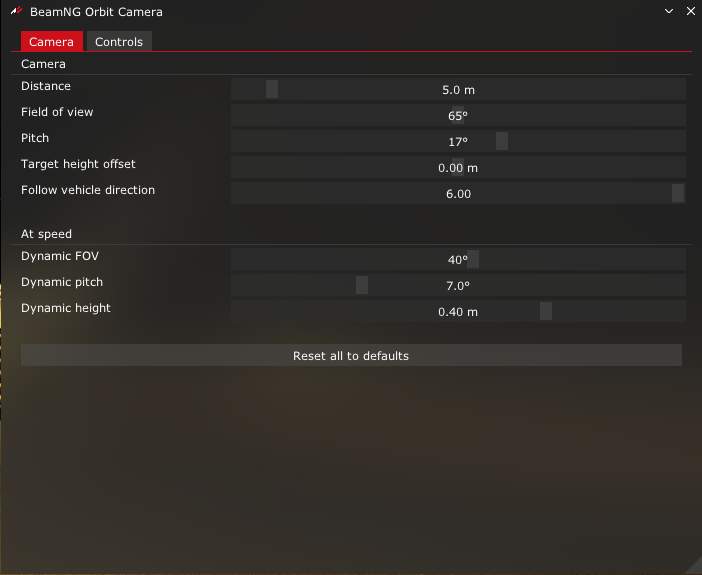
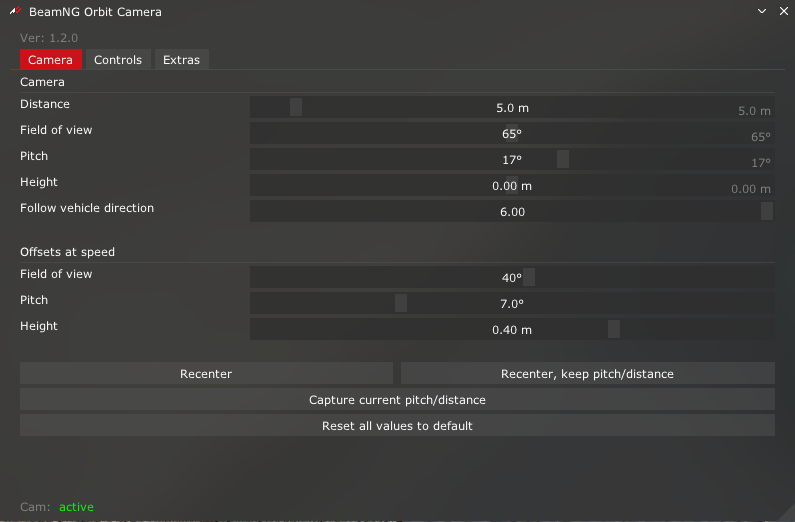
Update documentation and screenshots for 1.2.0

diff --git a/README.md b/README.md
@@ -41,7 +41,6 @@ This is a nearly 1:1 behavioral port of the BeamNG.drive orbit camera. The follo
 - Smooth rendered yaw behavior
 - Near-clip-aware camera collisions
 - Collision pull-in and smooth release
-- Optional vehicle-specific reference nodes
 
 ## Mod Structure
 
@@ -66,11 +65,21 @@ After installation:
 
 Camera and input settings are configured from the **BeamNG Orbit Camera** Lua app while you are in a session.
 
+In smaller windows, tab contents scroll above the status bar. Status indicators appear only while the camera or OBS integration is active.
+
 The **Camera** tab contains the camera parameters:
 
 ![](res/lua_app_camera.png?raw=true)
 
 Most values follow the corresponding BeamNG.drive orbit-camera settings and ranges.
+
+While the camera is active, gray readouts show its current distance, FOV, pitch and height, including speed offsets and manual orbit adjustments.
+
+- **Recenter** returns the camera behind the car and restores the pitch and distance from the settings.
+- **Recenter, keep pitch/distance** returns the camera behind the car while preserving the current orbit pitch and distance.
+- **Capture current pitch/distance** saves the current orbit pitch and distance to the settings, without the additional speed offsets.
+
+**Follow vehicle direction** supports values down to 0.2. Values below 0.5 gradually take effect at higher speeds while keeping the camera less reactive at low speeds.
 
 The camera ignores the standard Assetto Corsa chase-camera distance, height and pitch settings and uses its own values instead. This is intentional so all relevant camera settings can be adjusted from one place and tested immediately in-session.
 
@@ -82,15 +91,39 @@ The **Controls** tab contains common bindable actions and specifics for gamepad 
 
 The gamepad and mouse are implemented using *predefined control schemes* to reduce the number of possible moving parts. And also because, in any case, there is no convenient way to assign gamepad axes and mouse buttons.
 
+The camera uses the gamepad selected in the game's control settings.
+
+Standard glance left/right/back controls are enabled by default. Hold **left + back** or **right + back** for a front-left or front-right view at 45 degrees. **Controls → Additional → Disable glance left/right/back** disables the camera's response to these controls.
+
 ## Mod Specifics
 
-### Obs Integration
+The **Extras** tab contains collision settings and OBS integration:
 
-The camera is available in OBS as a custom `BeamNG Orbit Camera` source.
+![](res/lua_app_extras.png?raw=true)
+
+### Collisions
+
+**Extras → Collision** offers three handling modes: **Disabled**, **Collision with physics shapes** (default), and **Collision with visuals**.
+
+**Disable collision for recentered camera** is off by default. Enabling it skips collision checks while the camera is recentered, which can slightly reduce CPU load. Collision checks resume after manual orbit or zoom input when a collision handling mode is enabled.
+
+### OBS Integration
+
+Enable **Extras → Enable OBS integration** to make the camera available in OBS as a custom `BeamNG Orbit Camera` source. Integration is off by default.
 
 **_Caution:_** If OBS Integration is enabled while this camera is active as the chase camera, its camera logic will run **twice** per frame.
 
 Unfortunately, running the camera logic only once causes jitter (and/or other misbehaviors) because the in-game camera and OBS source are updated from different contexts.
+
+## Release archive
+
+Run from the project root with PowerShell 7:
+
+```powershell
+pwsh -File tools/package_release.ps1
+```
+
+Creates `dist/beamng-orbit-camera-<version>.zip` with the `apps/` and `extension/` folders ready for installation. The version comes from the manifests, which must agree. `dist/` is ignored by Git. See [packaging notes](tools/README.md).
 
 ## How to uninstall
 
